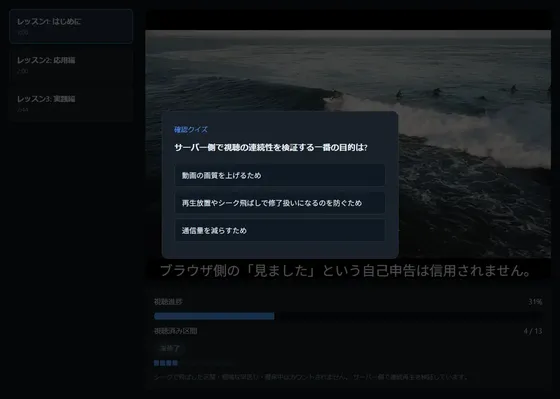
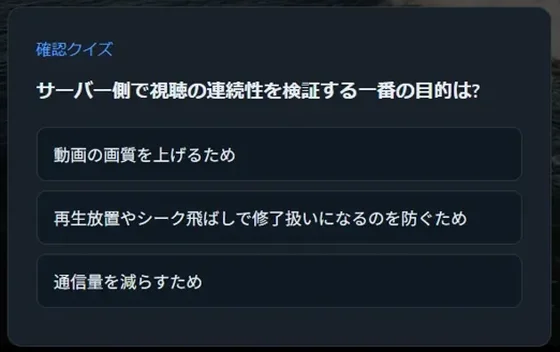
Address the quick fixes from the recruiter-eye review
Top page
- Works 01: crop the main shot to the quiz so its text is readable
- Hero cards: re-crop EVC and Elevator Talk to readable parts, stack them
  01-02-03 top to bottom, keep every label visible, and stop the intro
  line from breaking mid-phrase
- About: bridge the heading to the works (making learning and play fun)
- Timeline: add メカローグライク to 2026; drop （仮） from its title
- Works 02: link the spec next to the GitHub button

Elevator Talk
- Say whose work it is and why, with a link back
- Fix the 30-second wording, explain the 違和感チェック tab
- Rename the mic toggle and expose aria-pressed
- Show a sample AI correction until real feedback arrives

Claude-Session: https://claude.ai/code/session_01LWx8tTKDNCT5a9fkc6DsGi

diff --git a/index.html b/index.html
@@ -38,8 +38,8 @@
   <meta property="og:locale" content="ja_JP">
   <meta name="twitter:card" content="summary_large_image">
   <link rel="icon" href="favicon.svg" type="image/svg+xml">
-  <link rel="stylesheet" href="style.css?v=20261116b">
-  <script src="analytics.js?v=20261116b" defer></script>
+  <link rel="stylesheet" href="style.css?v=20261116c">
+  <script src="analytics.js?v=20261116c" defer></script>
 </head>
 <body>
   <header class="site-header">
@@ -62,7 +62,7 @@
         <p class="eyebrow">PORTFOLIO</p>
         <h1>塩田 颯</h1>
         <p class="hero-text">
-          さいたまIT・WEB専門学校 プロジェクトマネージャー専攻（4年制）<br>在学中／2028年卒業予定。<br>企画と仕様づくり、動作確認を自分で担当し、<br>AI と一緒に学習支援の Web アプリやゲームを形にしています。
+          さいたまIT・WEB専門学校 <span class="nowrap">プロジェクトマネージャー専攻（4年制）</span><span class="nowrap">在学中／2028年卒業予定。</span><br>企画と仕様づくり、動作確認を自分で担当し、<br>AI と一緒に学習支援の Web アプリやゲームを形にしています。
         </p>
         <div class="button-row hero-actions">
           <a class="button" href="#works" data-track="hero_works">作品を見る</a>
@@ -72,16 +72,16 @@
         </div>
         <div class="hero-visual">
           <a class="hero-card hero-card-evc" href="#work-evc" data-track="hero_card_evc">
-            <img src="images/evc/hero.webp" width="560" height="399" loading="lazy" alt="Educational Video Creator：動画の途中で出題される確認クイズの画面">
+            <img src="images/evc/hero.webp" width="560" height="352" loading="lazy" alt="Educational Video Creator：動画の途中で出題される確認クイズの画面">
             <span>01 Educational Video Creator</span>
+          </a>
+          <a class="hero-card hero-card-et" href="#work-et" data-track="hero_card_et">
+            <img src="images/elevator-talk/hero.webp" width="560" height="319" loading="lazy" alt="Elevator Talk：エレベーターのタイマーと、テーマ「好きな食べ物」のセリフの型が並ぶ練習画面">
+            <span>02 Elevator Talk</span>
           </a>
           <a class="hero-card hero-card-mech" href="#work-mech" data-track="hero_card_mech">
             <img src="images/mech/hero.webp" width="560" height="276" loading="lazy" alt="メカローグライク：4機にロックオンしてミサイルを撃つ空中戦の画面">
             <span>03 メカローグライク</span>
-          </a>
-          <a class="hero-card hero-card-et" href="#work-et" data-track="hero_card_et">
-            <img src="images/elevator-talk/hero.webp" width="560" height="173" loading="lazy" alt="Elevator Talk：セリフの型とエレベーターのタイマーが並ぶ練習画面">
-            <span>02 Elevator Talk</span>
           </a>
         </div>
       </div>
@@ -91,6 +91,10 @@
       <div class="container narrow">
         <p class="section-label">01 / ABOUT</p>
         <h2>アイデアで生活を楽しくしたい</h2>
+        <p>
+          学ぶことも遊ぶことも、ちょっとした工夫でもっと楽しくなると思っています。
+          学習支援のWebアプリもゲームも、私にとっては、その「楽しくする工夫」を形にして試す場です。
+        </p>
         <p>
           Webアプリケーションやゲーム、スマートフォン向けアプリなどを、ClaudeやKiroを使ったspec駆動開発で制作しています。
           最初に仕様（spec）を書いて大筋を作り、使いながら気づいたことを仕様に足して改善を重ね、完成させていきます。
@@ -102,7 +106,7 @@
           <div><dt>2015</dt><dd>帰国後、蛍めぐり祭のボランティアに参加（現在も継続中）</dd></div>
           <div><dt>2024</dt><dd>さいたまIT・WEB専門学校 プロジェクトマネージャー専攻 入学</dd></div>
           <div><dt>2025</dt><dd>保育園 キラここキッズ軽井沢でボランティアスタッフとして活動</dd></div>
-          <div><dt>2026</dt><dd>Educational Video Creator、Elevator Talk を制作</dd></div>
+          <div><dt>2026</dt><dd>Educational Video Creator、Elevator Talk、メカローグライクを制作</dd></div>
           <div><dt>2028</dt><dd>卒業予定</dd></div>
         </dl>
       </div>
@@ -151,7 +155,7 @@
             <h2>Educational Video Creator</h2>
             <p class="work-lead">動画学習を「再生しただけ」で終わらせないための、学習管理システム</p>
             <figure class="work-shot">
-              <img src="images/evc/quiz.webp" width="1200" height="856" loading="lazy"
+              <img src="images/evc/quiz-crop.webp" width="870" height="490" loading="lazy"
                 alt="動画の再生中に確認クイズが表示され、下に視聴進捗31%と視聴済み区間4/13が表示されている画面">
               <figcaption>動画の途中で出題される確認クイズ。視聴済みの区間はサーバー側で記録します。</figcaption>
             </figure>
@@ -263,6 +267,7 @@
             </details>
             <div class="button-row">
               <a class="button" href="works/elevator-talk/" data-track="works_try_elevator_talk">使ってみる</a>
+              <a class="button button-outline" href="https://github.com/salty-en-jp/Portfolio-website/blob/main/docs/elevator-talk-spec.md" target="_blank" rel="noopener noreferrer">仕様書を見る ↗</a>
               <a class="button button-outline" href="https://github.com/salty-en-jp/Portfolio-website/tree/main/works/elevator-talk" target="_blank" rel="noopener noreferrer">View on GitHub ↗</a>
             </div>
           </div>
@@ -272,7 +277,7 @@
           <div class="work-number">03</div>
           <div class="work-content">
             <p class="work-type">GAME / 3D / THREE.JS</p>
-            <h2>メカローグライク（仮）</h2>
+            <h2>メカローグライク</h2>
             <p class="work-lead">機体を組み上げて、20分間を生き抜く3Dメカのローグライク・アクション</p>
             <figure class="work-shot">
               <video class="autoplay-when-visible" src="images/mech/missile.mp4" poster="images/mech/missile-poster.webp"

diff --git a/works/elevator-talk/index.html b/works/elevator-talk/index.html
@@ -38,8 +38,8 @@
   <meta property="og:locale" content="ja_JP">
   <meta name="twitter:card" content="summary_large_image">
   <link rel="icon" href="../../favicon.svg" type="image/svg+xml">
-  <link rel="stylesheet" href="style.css?v=20261116b">
-  <script src="../../analytics.js?v=20261116b" defer></script>
+  <link rel="stylesheet" href="style.css?v=20261116c">
+  <script src="../../analytics.js?v=20261116c" defer></script>
 </head>
 <body>
   <header class="bar">
@@ -56,7 +56,11 @@
     <!-- Elevator Talk -->
     <section id="talk" class="panel">
       <h1>Elevator Talk</h1>
-      <p class="lead">1階から5階に着くまでの30秒で、テーマについて英語で話し切る練習です。<br>セリフの型を手がかりに、まずは最後まで話すことを目指します。</p>
+      <p class="lead">エレベーターが1階から5階に着くまでの30〜60秒で、テーマについて英語で話し切る練習です。<br>セリフの型を手がかりに、まずは最後まで話すことを目指します。</p>
+      <p class="about-note">
+        塩田 颯（さいたまIT・WEB専門学校 プロジェクトマネージャー専攻）の作品です。「セリフの型があれば、英語を話し切れるか」という仮説を確かめるために企画しました。<a href="../../#work-et">制作の背景を見る</a><br>
+        上の「違和感チェック」タブでは、不自然な英語を見抜くクイズができます。
+      </p>
 
       <div class="controls">
         <label>テーマ
@@ -106,7 +110,7 @@
 
       <div class="actions">
         <button type="button" id="start" class="primary">スタート</button>
-        <button type="button" id="mic" class="ghost" hidden>マイクで話す：オフ</button>
+        <button type="button" id="mic" class="ghost" aria-pressed="false" hidden>マイクを使う</button>
       </div>
       <p class="note" id="micNote"></p>
 
@@ -123,6 +127,16 @@
       <div class="feedback-actions">
         <button type="button" id="feedbackBtn" class="primary" disabled>AIにフィードバックをもらう</button>
         <p class="note">送信した文章は外部のAIサービス（Google Gemini）に送られます。個人情報は入力しないでください。</p>
+      </div>
+
+      <div class="sample" aria-label="AIフィードバックの例">
+        <p class="sample-label">AIフィードバックの例</p>
+        <div class="improvement">
+          <p class="from">lately i'm into vibe coding</p>
+          <p class="to">lately i've been into vibe coding</p>
+          <p class="why">最近ずっとハマっていることを表すには、現在完了進行形を使うとより自然です。</p>
+        </div>
+        <p class="note">直された文は「違和感チェック」に、自分専用の問題として保存されます。</p>
       </div>
 
       <div id="feedback" class="feedback" hidden aria-live="polite"></div>
@@ -154,8 +168,8 @@
     <p>入力内容と記録は、このブラウザの中にだけ保存されます。このページでは、利用状況の把握のために Google アナリティクス（Cookie を使用）を利用しています。<a href="https://policies.google.com/technologies/partner-sites?hl=ja" target="_blank" rel="noopener noreferrer">データの扱いについて</a></p>
   </footer>
 
-  <script src="config.js?v=20261116b"></script>
-  <script src="data.js?v=20261116b"></script>
-  <script src="app.js?v=20261116b"></script>
+  <script src="config.js?v=20261116c"></script>
+  <script src="data.js?v=20261116c"></script>
+  <script src="app.js?v=20261116c"></script>
 </body>
 </html>

diff --git a/works/elevator-talk/app.js b/works/elevator-talk/app.js
@@ -168,7 +168,8 @@
     el.mic.hidden = false;
     el.mic.addEventListener("click", () => {
       micWanted = !micWanted;
-      el.mic.textContent = "マイクで話す：" + (micWanted ? "オン" : "オフ");
+      el.mic.textContent = micWanted ? "マイク使用中（押すとオフ）" : "マイクを使う";
+      el.mic.setAttribute("aria-pressed", micWanted ? "true" : "false");
       el.mic.classList.toggle("is-on", micWanted);
       el.micNote.textContent = micWanted
         ? "スタートすると文字起こしが始まります。音声はブラウザの音声認識サービスに送られます。"
@@ -355,6 +356,9 @@
     }
     frag.append(makeP("AIの指摘はまちがうこともあります。自分の感覚でも確かめてください。", "muted small"));
     el.feedback.replaceChildren(frag);
+    // 本物のフィードバックが出たら、見本は隠す
+    const sample = document.querySelector(".sample");
+    if (sample) sample.hidden = true;
   }
 
   function saveMistakes(improvements) {

diff --git a/style.css b/style.css
@@ -145,6 +145,15 @@ nav a:hover {
   box-shadow: 0 18px 40px rgba(0, 0, 0, 0.2);
 }
 
+.nowrap {
+  white-space: nowrap;
+}
+
+.hero-card-et span {
+  top: 10px;
+  bottom: auto;
+}
+
 .hero-card-evc span {
   top: 10px;
   bottom: auto;
@@ -157,17 +166,17 @@ nav a:hover {
   z-index: 1;
 }
 
-.hero-card-mech {
-  top: 31%;
+.hero-card-et {
+  top: 27%;
   left: 0;
-  width: 66%;
+  width: 58%;
   z-index: 2;
 }
 
-.hero-card-et {
-  right: 4%;
+.hero-card-mech {
+  right: 2%;
   bottom: 0;
-  width: 72%;
+  width: 62%;
   z-index: 3;
 }
 

diff --git a/works/elevator-talk/style.css b/works/elevator-talk/style.css
@@ -90,9 +90,35 @@ textarea {
 }
 
 .lead {
-  margin: 0 0 28px;
+  margin: 0 0 12px;
   color: #555;
   font-size: 15px;
+}
+
+.about-note {
+  margin: 0 0 28px;
+  color: #595959;
+  font-size: 13px;
+}
+
+.sample {
+  margin-top: 20px;
+  padding: 14px 16px;
+  border: 1px dashed #bbb;
+  border-radius: 8px;
+  background: #fafafa;
+}
+
+.sample-label {
+  margin: 0 0 8px;
+  color: #595959;
+  font-size: 12px;
+  font-weight: 600;
+  letter-spacing: 0.04em;
+}
+
+.sample .improvement {
+  margin-bottom: 6px;
 }
 
 .controls {
